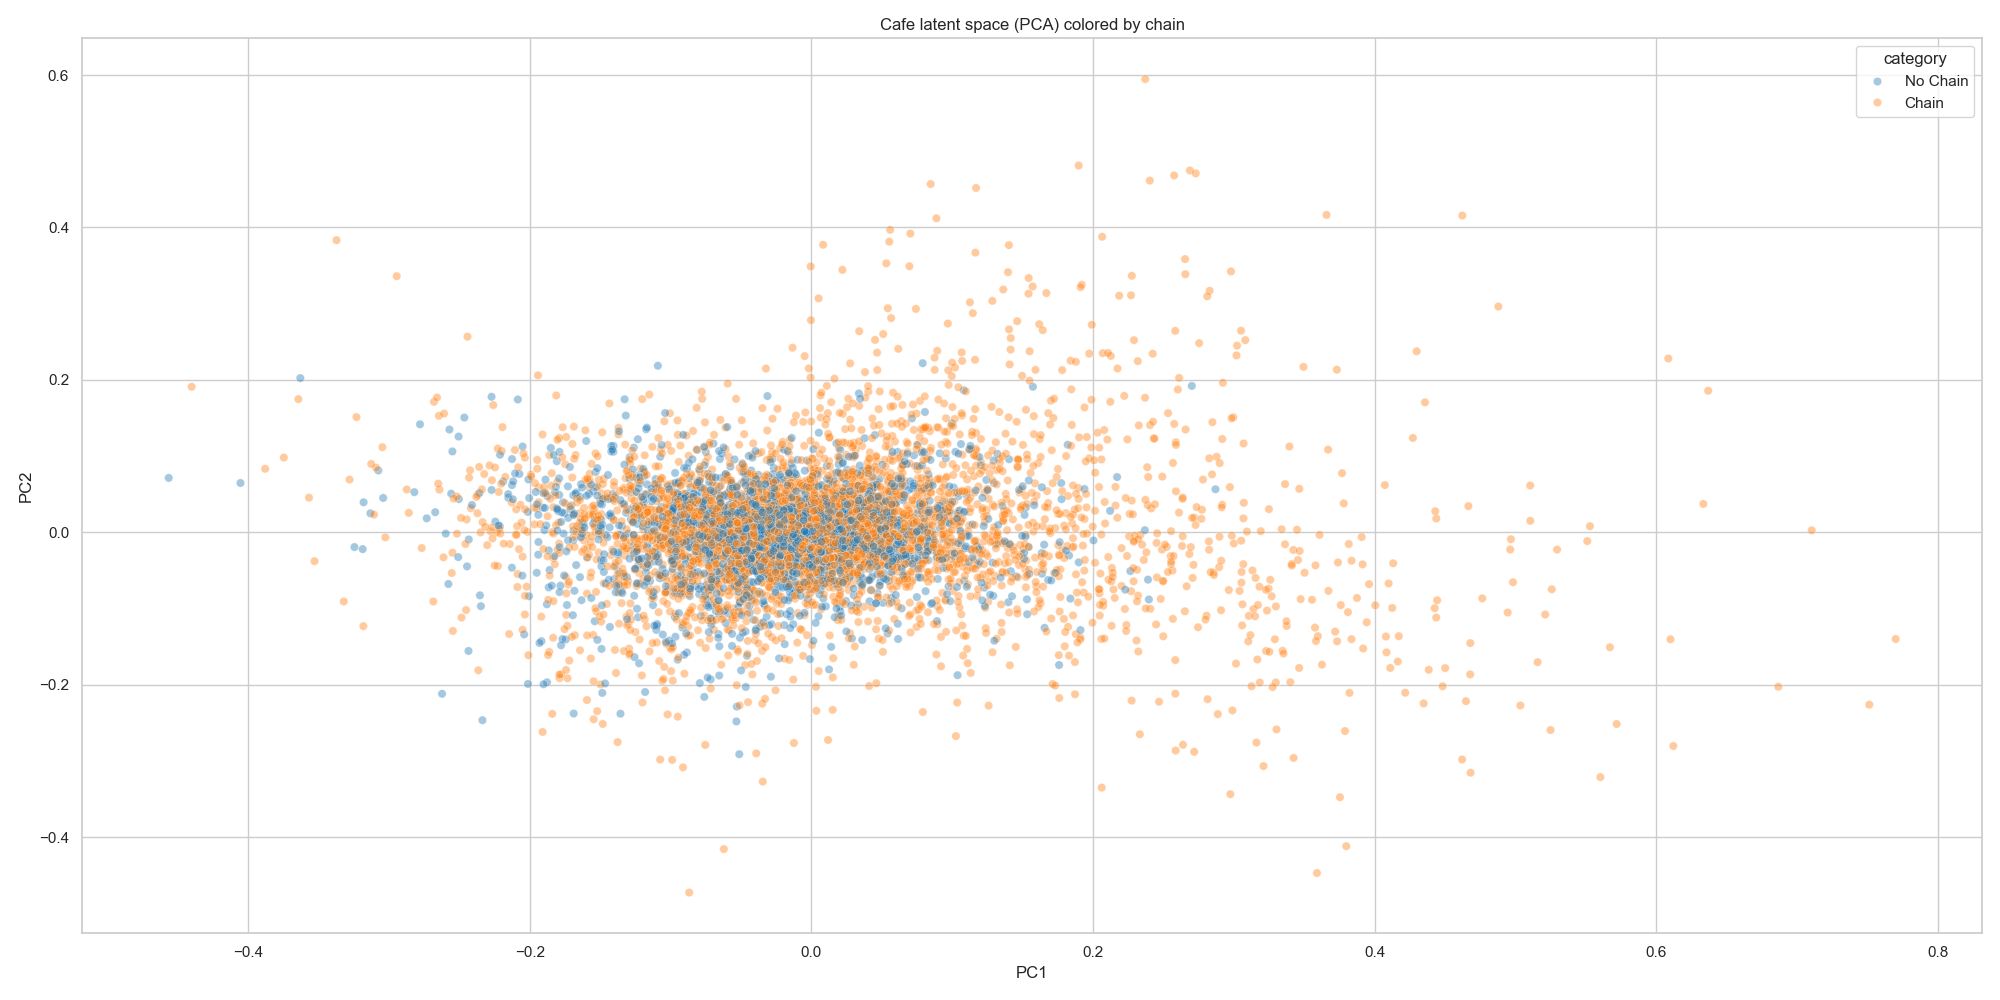
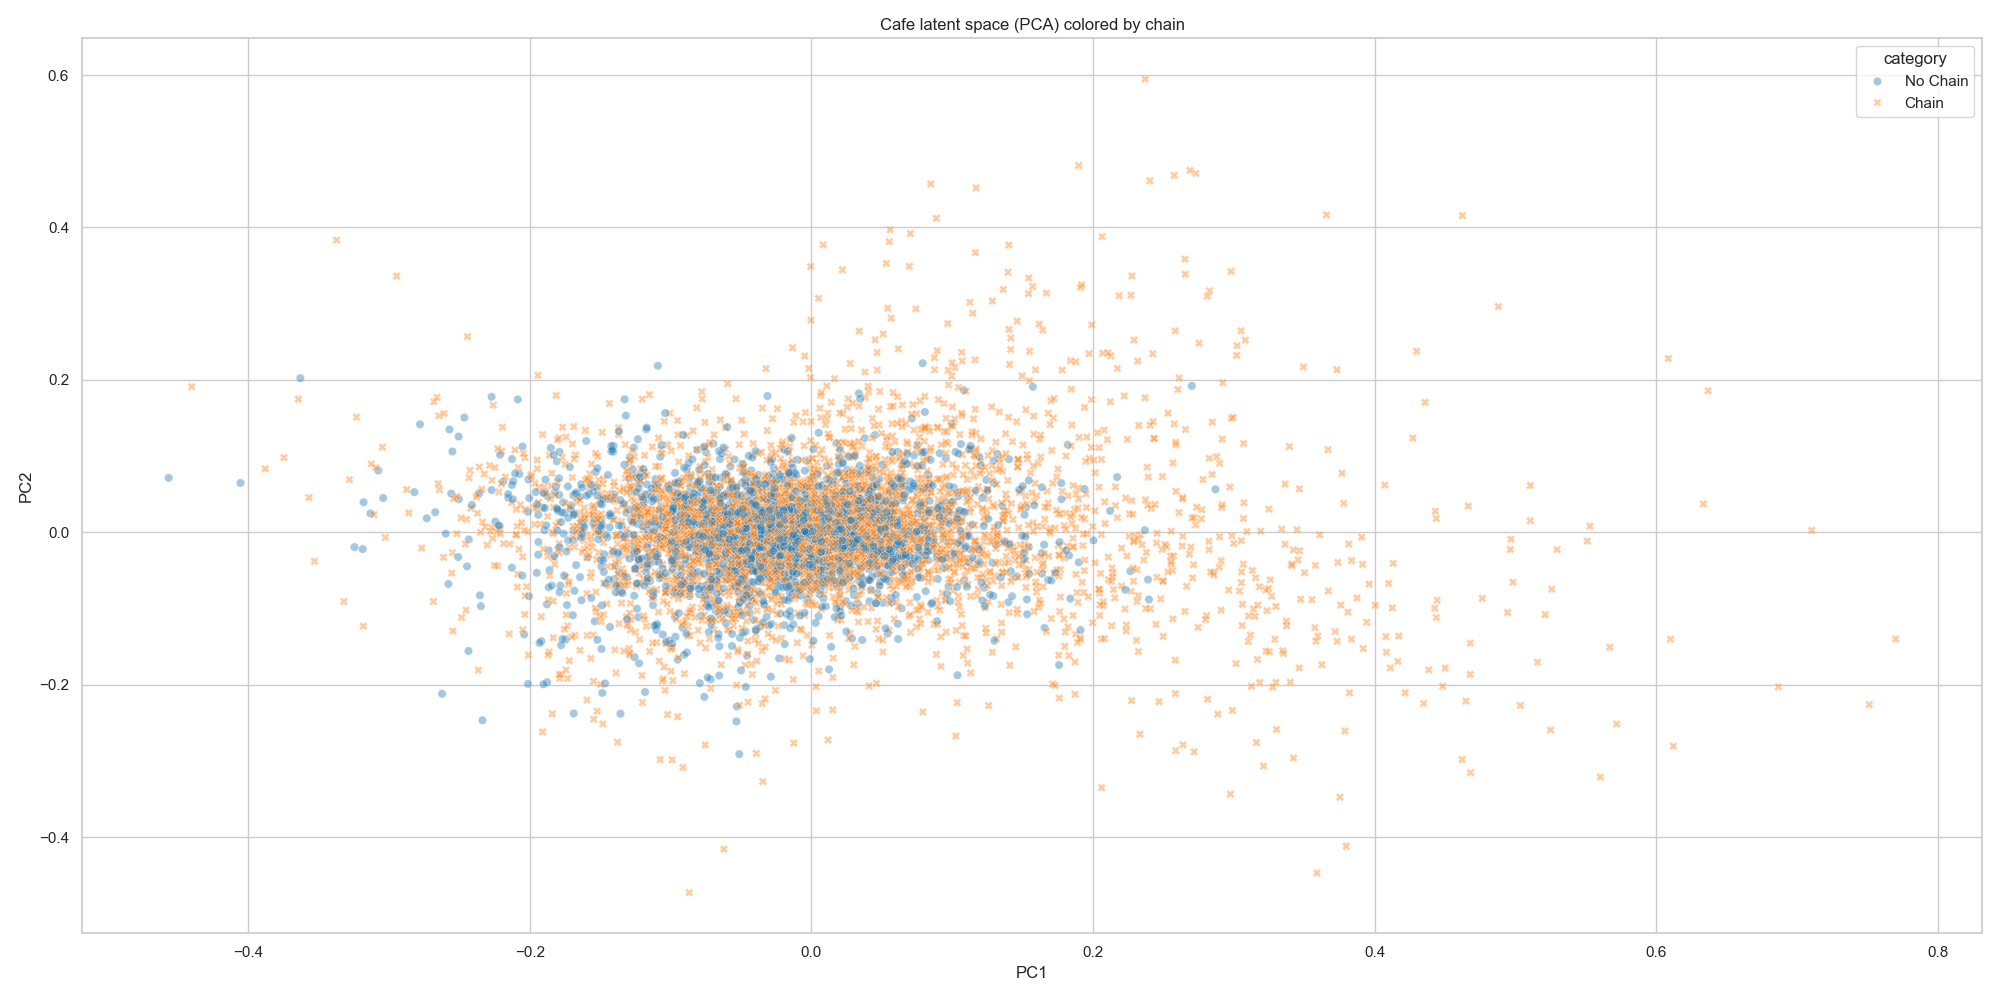
fixed latents extraction

Changed region(s): [[0.217, 0.372, 0.651, 0.682], [0.465, 0.341, 0.496, 0.372]]

diff --git a/latent_analysis.py b/latent_analysis.py
@@ -147,6 +147,9 @@ def plot_top_two_componets(df, name, category):
         )
         ax.get_legend().remove()
 
+    elif category == "chain" or category == "famous_chain":
+        sns.scatterplot(df, x="component_0", y="component_1", style="category", hue="category", alpha=0.4)
+
     else:
         sns.scatterplot(df, x="component_0", y="component_1", hue="category", alpha=0.4)
 
@@ -205,7 +208,6 @@ def train_classifier(latents, category, categories, name):
         print(f"Accuracy for SVM to predict {category} is {accuracy}")
 
 
-
 def visualize_cafe_latents_with_pca(model, run_name):
 
     print(f"[{run_name}] Building PCA visualization of cafe latents...")
@@ -249,7 +251,7 @@ def visualize_cafe_latents_with_pca(model, run_name):
     cafes_vis = cafes.iloc[:n].copy()
 
     # Building metadata DataFrame for plotting
-    cafe_meta = cafes_vis[["gmap_id", "avg_rating", "price"]].copy()
+    cafe_meta = cafes_vis[["gmap_id", "avg_rating", "price", "name"]].copy()
     cafe_meta["avg_rating"] = pd.to_numeric(cafe_meta["avg_rating"], errors="coerce")
 
     def price_to_num(p):
@@ -370,18 +372,105 @@ def visualize_cafe_latents_with_pca(model, run_name):
 
         plt.xlabel("PC1")
         plt.ylabel("PC2")
-        plt.title("Cafe latent space (PCA) – chains vs non-chains")
+        plt.title("Cafe latent space (PCA) - chains vs non-chains")
         plt.legend(loc="best", fontsize=8)
         plt.tight_layout()
         out3 = f"plots/cafe_latent_pca_by_chain_{run_name}.png"
         plt.savefig(out3, dpi=150)
         plt.close()
 
+    # Plot 4: Starbucks and McDonald's in the same PCA space
+    cafe_meta["name_lower"] = cafe_meta["name"].str.lower()
+
+    is_starbucks = cafe_meta["name_lower"].str.contains("starbucks", na=False)
+    is_mcdonalds = cafe_meta["name_lower"].str.contains("mcdonald", na=False)
+
+    plt.figure(figsize=(6, 5))
+    # All cafes in light gray
+    plt.scatter(
+        cafe_meta["pc1"],
+        cafe_meta["pc2"],
+        c="lightgray",
+        alpha=0.4,
+        s=10,
+        label="All cafes",
+    )
+    # Starbucks in green stars
+    plt.scatter(
+        cafe_meta.loc[is_starbucks, "pc1"],
+        cafe_meta.loc[is_starbucks, "pc2"],
+        c="green",
+        s=40,
+        marker="*",
+        label="Starbucks",
+    )
+    # McDonald's in red X
+    plt.scatter(
+        cafe_meta.loc[is_mcdonalds, "pc1"],
+        cafe_meta.loc[is_mcdonalds, "pc2"],
+        c="red",
+        s=40,
+        marker="x",
+        label="McDonald's",
+    )
+
+    plt.xlabel("PC1")
+    plt.ylabel("PC2")
+    plt.title("Cafe latent space (PCA) with Starbucks & McDonald's")
+    plt.legend()
+    plt.tight_layout()
+    out4 = f"plots/cafe_latent_pca_starbucks_mcdonalds_{run_name}.png"
+    plt.savefig(out4, dpi=150)
+    plt.close()
+
+
+    # PCA to 10 dimensions
+    pca10 = PCA(n_components=10, random_state=0)
+    Z10 = pca10.fit_transform(cafe_latents)
+
+    # Storing PC1–PC10
+    for i in range(10):
+        cafe_meta[f"pc{i+1}"] = Z10[:, i]
+
+    # Elbow Plot
+    explained_var = pca10.explained_variance_ratio_
+    plt.figure(figsize=(6, 4))
+    plt.plot(range(1, 11), explained_var, marker="o")
+    plt.xlabel("PCA Dimension")
+    plt.ylabel("Explained Variance Ratio")
+    plt.title("Elbow Plot of Top-10 PCA Dimensions")
+    plt.tight_layout()
+    out5 = f"plots/cafe_latent_pca_elbow_{run_name}.png"
+    plt.savefig(out5, dpi=150)
+    plt.close()
+
+    # Starbucks vs McDonald's Pairplot (Top-10 PCs)
+    sb_mask = is_starbucks | is_mcdonalds
+    sb_df = cafe_meta.loc[sb_mask, [f"pc{i+1}" for i in range(10)]].copy()
+
+    sb_df["brand"] = np.where(
+        is_starbucks.loc[sb_mask], "Starbucks", "McDonald's"
+    )
+
+    sns.pairplot(
+        sb_df,
+        hue="brand",
+        corner=True,
+        plot_kws={"alpha": 0.7, "s": 18},
+        diag_kws={"alpha": 0.7},
+    )
+
+    out6 = f"plots/cafe_latent_pca_starbucks_vs_mcdonalds_pairplot_{run_name}.png"
+    plt.savefig(out6, dpi=150)
+    plt.close()
+
     print(f"[{run_name}] Saved PCA plots to:")
     print(f"  {out1}")
     print(f"  {out2}")
-    if out3 is not None:
-        print(f"  {out3}")
+    print(f"  {out3}")
+    print(f"  {out4}")
+    print(f"  {out5}")
+    print(f"  {out6}")
 
 
 if __name__ == "__main__":

diff --git a/recommender.py b/recommender.py
@@ -222,8 +222,8 @@ class LatentBasedCafeRecommender():
         self.name = name
         model = torch.load(f"./models/{name}.pt", weights_only=False)
 
-        self.user_latents = model.latents[0]
-        self.cafe_latents = model.latents[1]
+        self.user_latents = model.latents["user"]
+        self.cafe_latents = model.latents["cafe"]
 
         self.subset = subset
 
@@ -251,17 +251,17 @@ class LatentBasedCafeRecommender():
         with open("params.json", "r") as f:
             params = json.load(f)
 
-        for param in params:
-            feat = param["feat"]
-            feat_names = param["feat_names"]
-            latent_names = param["latent_names"]
-            lamb_dict = param["lamb_dict"]
+        for param_dict in params:
+            feat = param_dict["feat"]
+            feat_names = param_dict["feat_names"]
+            latent_names = param_dict["latent_names"]
+            latent_pairs = param_dict["latent_pairs"]
+            lamb_dict = param_dict["lamb_dict"]
+            share_latents = param_dict.get("share_latents", 0)
 
-            lambs = [lamb_dict[feat] for feat in feat_names + latent_names]
-            lamb_str = "-".join([str(l) for l in lambs])
-
+            lamb_str = "_".join([f"{name}-{value}" for name, value in lamb_dict.items()])
             model_name = f"{feat}_{lamb_str}"
-            if self.subset:
+            if subset:
                 model_name += "_subset"
 
             if model_name == name:
@@ -341,17 +341,17 @@ class RankBasedCafeRecommender():
         with open("params.json", "r") as f:
             params = json.load(f)
 
-        for param in params:
-            feat = param["feat"]
-            feat_names = param["feat_names"]
-            latent_names = param["latent_names"]
-            lamb_dict = param["lamb_dict"]
+        for param_dict in params:
+            feat = param_dict["feat"]
+            feat_names = param_dict["feat_names"]
+            latent_names = param_dict["latent_names"]
+            latent_pairs = param_dict["latent_pairs"]
+            lamb_dict = param_dict["lamb_dict"]
+            share_latents = param_dict.get("share_latents", 0)
 
-            lambs = [lamb_dict[feat] for feat in feat_names + latent_names]
-            lamb_str = "-".join([str(l) for l in lambs])
-
+            lamb_str = "_".join([f"{name}-{value}" for name, value in lamb_dict.items()])
             model_name = f"{feat}_{lamb_str}"
-            if self.subset:
+            if subset:
                 model_name += "_subset"
 
             if model_name == name:
@@ -387,7 +387,7 @@ if __name__ == "__main__":
     subset = True
     device = torch.device("cpu")
 
-    name = "latent_0-0.1-1-0.1-1_subset"
+    name = "base_latent_alpha-0_user-1_cafe-0.1_subset"
     num_recommends = 10
 
     rank_recommender = RankBasedCafeRecommender(name, num_recommends, device, subset=subset)
